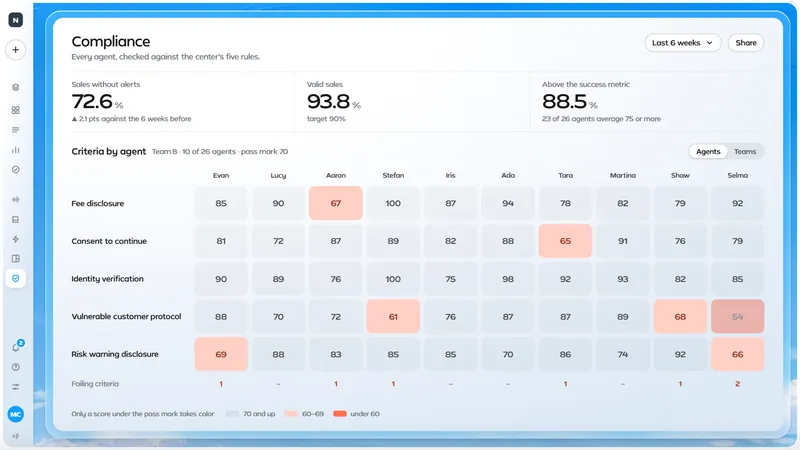
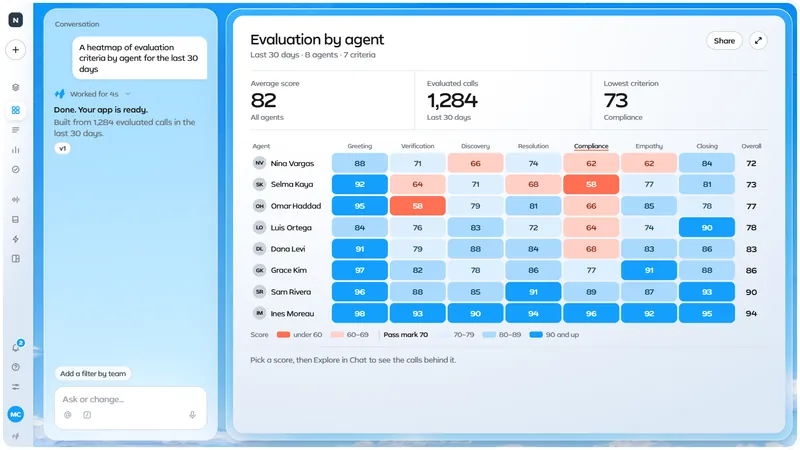
Home Compliance slide: the same Studio explain screen as the case study (grid, the card beside the team, Explore in Chat with the Oct 13 call first); the focus rim's corners now match what it rings, corner by corner, and everything outside it is veiled again; in chat only the AI's answer is ringed

diff --git a/v7/product.js b/v7/product.js
@@ -14,6 +14,18 @@
       if (i === 0) t.hot(-1, -1, 'force'); else if (i === 1) t.hot(0, -1, 'map'); else t.ask(0, 2);
     }
   };
+  /* Compliance is the Explainable scores case's own screen: the Evaluation by agent app in explain mode (studio.html?app=eval&explain=1,
+     hear-v7/plan/explain). Its four states (the grid, the scores under 70, the card, the calls) play as three steps: the grid's second
+     shot dims the blue side (call: 1), the card opens on Selma's Compliance 58, and Explore in Chat brings the calls. */
+  var EXPLAIN = {
+    steps: ['Every agent on every rule: coral under the pass mark of 70, blue above it.', 'A click on a low score opens a card that compares the agent with the team.', 'Explore in Chat brings in the calls behind the score, and the AI points to the process.'],
+    step: function (w, i, sub) {
+      var n = sub != null ? sub : [0, 2, 3][i], c = w.document.querySelector('.app .card');
+      w.hearExplain.step(n);
+      /* the window is shorter than the case page's: the app card scrolls, so the calls are brought up whole once they are asked for */
+      if (c) c.scrollTop = n === 3 ? c.scrollHeight : 0;
+    }
+  };
   /* THE CAMERA (owner, 22.11.2026: "a busy screen cannot be shown whole: the animation has to focus on one part at a time", and later
      the same day: "more thought in the animation, more exact timings, a more calculated experience").
      Every step is a list of shots: [after ms, selector in the screen, options]. The frame moves in on what the selector finds, measured
@@ -30,21 +42,27 @@
        4. as it opens, the lit area grows around it and the frame pushes in on it, in one move.
      When what the step is about does not exist yet (a side panel), the frame holds where it is, the screen opens it, and then the frame
      goes to it. Nothing opens while the picture is still travelling. */
+  var CM = '#hm tr:first-child th:first-child, #hm tr:last-child td[data-c="Compliance"]';
   var SHOTS = {
     topics: [
       [[0, null], [1700, '.tp-col:first-child', { pad: 22 }]],
       [[0, '#tp-map [data-k="0"]', { pad: 56, max: 2.1 }]],
       [[0, '.ask-on .tp-ask', { fit: 'w', pad: 26, max: 2, from: '#tp-map [data-k="0"] .tp-p[data-p="2"]' }], [5200, '.ask-on .tp-ask', { fit: 'w', part: [0, .17, 1, 1], keep: true, pad: 26, max: 2 }]]
     ],
+    /* call: the screen's own sub-step, played when the shot comes (and at once when the step is shown paused) */
     compliance: [
-      [[0, null], [1700, '.cm-grid', { part: [0, 0, .6, 1], max: 1.7 }], [4000, '.cm-grid', { part: [.4, 0, 1, 1], max: 1.7 }]],
-      [[0, '[data-c="3-9"]', { pad: 180, pad2: 46, max: 1.85, grow: '.sx-tip.on' }]],
-      [[0, '.sx-side.on', { fit: 'w', pad: 26, max: 2, from: '.sx-tip.on .go' }], [3600, '.sx-side.on', { fit: 'w', part: [0, .16, 1, 1], keep: true, small: true, pad: 26, max: 2 }]]
+      /* a phone reads the grid from the names to the Compliance column, the width of the frame */
+      [[0, null], [1700, '#hm, .appv[data-v="eval"] .key', { pad: 22, max: 1.7, big: true }], [4300, '#hm, .appv[data-v="eval"] .key', { pad: 22, max: 1.7, keep: true, call: 1, big: true }],
+        [1700, CM, { fit: 'w', pad: 14, max: 2, small: true }], [4300, CM, { fit: 'w', pad: 14, max: 2, keep: true, call: 1, small: true }]],
+      [[0, '#hm td[data-a="Selma Kaya"][data-c="Compliance"]', { pad: 180, pad2: 30, max: 1.85, grow: '.xp-pop' }]],
+      /* the calls, then what the AI says; a phone reads the first call in two parts: the call, then its score and what Hear found */
+      [[0, '.ev:not(.xp-empty), .ev:not(.xp-empty) #evl', { pad: 22, max: 1.8, from: '.xp-pop .xp-go' }], [2700, '#evl tr:first-child', { pad: 16, max: 2, gx: 10, gy: 0, ax: 1, small: true }],
+        [4000, '.xp-said', { pad: 26, max: 1.8, big: true, mark: '.it.xp-said' }], [5200, '.xp-said', { pad: 20, max: 2, small: true, mark: '.it.xp-said' }]]
     ],
     agents: [
       /* the chart is nearly as wide as the screen: a small zoom only cut the screen's title in half at the top rim, so the screen stays whole and the chart is lit */
       [[0, null], [1700, '.ae-plot, .ae-dates', { pad: 80, ax: .62 }]],
-      [[0, '[data-b="17"]', { pad: 130, pad2: 50, max: 1.85, grow: '.sx-tip.on' }]],
+      [[0, '[data-b="17"]', { pad: 130, pad2: 50, max: 1.85, grow: '.sx-tip.on', mark: '.sx-tip.on' }]],
       [[0, '.sx-side.on', { fit: 'w', pad: 26, max: 2, from: '.ae-strip i:last-child' }], [3000, '.sx-side.on', { fit: 'w', part: [0, .26, 1, 1], keep: true, small: true, pad: 26, max: 2 }], [4900, '.sx-side.on', { fit: 'w', part: [0, .62, 1, 1], keep: true, small: true, pad: 26, max: 2 }], [4700, '.sx-side.on .ae-ag, .sx-side.on .ae-nt, .sx-side.on .ft', { keep: true, big: true, pad: 16, max: 2 }]]
     ],
     actions: [
@@ -81,7 +99,9 @@
     topics: { k: 0, sel: '#tp-map [data-k="5"]', o: { pad: 120, max: 1.7, gx: 2, gy: 2 }, os: { pad: 34, max: 2.6, gx: 2, gy: 2 },
       act: function (w) { var t = w.hearTopics, b = w.document.querySelector('#tp-view button[data-i="1"]'); t.close(); if (b && !b.classList.contains('on')) b.click(); t.hot(5, -1, 'map'); },
       undo: function (w) { var b = w.document.querySelector('#tp-view button[data-i="0"]'); if (b && !b.classList.contains('on')) b.click(); } },
-    compliance: { k: 2, sel: '.sx-side.on li:first-child', o: { pad: 54, max: 2, gx: 10, gy: 0 }, os: { pad: 38, max: 2.4, gx: 10, gy: 0 }, late: true },
+    /* the calls behind Selma's Compliance score, after Explore in Chat: the Oct 13 call is the first row (explain.js) */
+    compliance: { k: 2, sel: '#evl tr:first-child', o: { pad: 54, max: 2, gx: 10, gy: 0 }, os: { pad: 38, max: 2.4, gx: 10, gy: 0 },
+      then: function (small) { return small ? { at: 2600, sel: '#evl tr:first-child', o: { pad: 20, max: 2.4, gx: 10, gy: 0, ax: 1 } } : null; } },
     /* the task, from its header ("From an alert") down to its facts: priority, who has it, which call. A phone cannot read all of that
        at once: it reads the task first, then (then:) the frame moves down to the facts. */
     actions: { k: 2, sel: function (small) { return small ? '.sx-side.on header, .sx-side.on .a' : '.sx-side.on header, .sx-side.on .a, .sx-side.on dl'; },
@@ -90,7 +110,7 @@
     news: { k: 0, sel: '.nr-item.thread', o: { pad: 70, max: 1.9, gx: 14, gy: 0 }, os: { pad: 28, max: 2.2, gx: 10, gy: 0 } }
   };
   /* How long each step lasts once the frame has landed on it (the way there is added: see P.off). */
-  var DUR = { topics: [5400, 4400, 10200], compliance: [6600, 4400, 7600], agents: [6200, 4800, 8600], actions: [5600, 4200, 8500, 4600], news: [8600, 4600, 4400, 5000], data: [6600, 4800, 9900], signals: [8200, 6600, 14000] };
+  var DUR = { topics: [5400, 4400, 10200], compliance: [6600, 5200, 9400], agents: [6200, 4800, 8600], actions: [5600, 4200, 8500, 4600], news: [8600, 4600, 4400, 5000], data: [6600, 4800, 9900], signals: [8200, 6600, 14000] };
   /* owner, 24.11: "the demos run too slowly, at least at the start". The step lengths and the shots' start times above are played
      at this pace: the first step (which only shows the screen) at 55%, the rest at 80%. The camera's travel and the press, open and
      settle beats below are not scaled, so nothing still opens while the picture is moving. */
@@ -114,7 +134,10 @@
     /* owner, 24.11: "the mark is ugly, it does not fit what it marks and nearly touches it, and the two parts differ in colour". The mark
        is now Hear's own focus ring (the field in focus in the app: a blue line and a soft blue halo), 10px clear of the part with the
        part's corner plus that air, and nothing outside it is washed: the screen keeps one colour. */
-    'box-shadow:0 0 0 calc(var(--h,1px)*1.5) #139FFD,0 0 0 calc(var(--h,1px)*5) rgba(19,159,253,.16)}' +
+    /* owner, 25.11: "what is around it is not dimmed as it was; the whole point was to help focus on what matters". Everything outside
+       the rim is dimmed again, by the rim's own shadow, so the dimmed area follows the rim's corners exactly: a light veil, the same
+       on every colour, about what the old screens did with opacity .6 on what was not in focus. */
+    'box-shadow:0 0 0 calc(var(--h,1px)*1.5) #139FFD,0 0 0 calc(var(--h,1px)*5) rgba(19,159,253,.16),0 0 0 4000px rgba(255,255,255,.55)}' +
     '.px-soft{position:fixed;z-index:2147483000;pointer-events:none;opacity:0;background:none}' +
     '#px-rim.on,.px-soft.on{opacity:1}' +
     '#px-tap{position:fixed;z-index:2147483002;pointer-events:none;border-radius:50%;opacity:0;background:rgba(19,159,253,.22);box-shadow:inset 0 0 0 var(--h,1px) rgba(255,255,255,.95),0 0 0 var(--h,1px) rgba(11,111,207,.55)}' +
@@ -127,6 +150,7 @@
      behind is emptied, and loads again when the reader comes back. Until a window has drawn, it shows a still of its first view
      (img/px-poster-*.webp, the whole screen as step 1 opens on it), never an empty blue box. */
   var LOAD = { busy: null, t: 0 }, FAR = 4000, UNDER = 2500;
+  var POSTER = { compliance: 2 };          /* a still redrawn since: its version, so no browser keeps the old one */
   function pump() {
     if (LOAD.busy && performance.now() - LOAD.t < 6000) return;
     LOAD.busy = null;
@@ -161,8 +185,8 @@
     var key = function () { return fig.getAttribute('data-px'); };
     /* the still of the screen the window holds; it is drawn only while the app is not (a still under a live app is wasted memory) */
     function still() {
-      var f = base + 'img/px-poster-' + key();
-      poster.srcset = f + '-s.webp?v=1 800w, ' + f + '.webp?v=1 1600w'; poster.src = f + '.webp?v=1';
+      var f = base + 'img/px-poster-' + key(), v = '.webp?v=' + (POSTER[key()] || 1);
+      poster.srcset = f + '-s' + v + ' 800w, ' + f + v + ' 1600w'; poster.src = f + v;
     }
     function cover(on) { clearTimeout(P.pv); if (on) poster.style.visibility = ''; else P.pv = setTimeout(function () { poster.style.visibility = 'hidden'; }, 700); }
     still();
@@ -225,21 +249,32 @@
     function target(full, rest) {
       var sh = shot(), o = (sh && sh[2]) || {};
       if (!sh || !sh[1]) return null;
-      try { var sel = full && o.grow ? sh[1] + ', ' + o.grow : sh[1]; P.rad = o.part ? 0 : radOf(sel); return rectOf(sel, o.part, rest); } catch (e) { return null; }
+      /* mark: the rim goes round this part only, while the frame still shows the whole shot (the AI's answer, with its question above it) */
+      try { var sel = full && o.grow ? sh[1] + ', ' + o.grow : sh[1], ms = o.mark || null;
+        P.rad = o.part ? null : radOf(ms || sel); P.mark = ms ? rectOf(ms) : null; return rectOf(sel, o.part, rest); } catch (e) { P.mark = null; return null; }
     }
     /* The corner of what a selector covers, in the screen's px: the corner of the thing itself, or, when it is a plain box, of what
        sits in its corner (a map tile's face, the first card of a column). The lit area takes its corner from here, so its shape is
        the shape of the part it marks (owner, 22.11.2026 night: "it is not about more or less, it must fit the part it marks"). */
+    /* owner, 25.11: "the curve must be exact for every one of them". Each of the four corners is read on its own: the corner of the
+       thing that sits in that corner of what is marked (a bubble, a cell, a card). Where nothing with a shape sits in a corner (a line
+       of text, a header), that corner is null and the rim is nearly square there. [top-left, top-right, bottom-right, bottom-left] */
     function radOf(sel) {
-      var d = frame.contentDocument, w = frame.contentWindow, best = 0;
-      [].forEach.call(d.querySelectorAll(sel), function (el) {
-        var r = el.getBoundingClientRect(); if (r.width < 2 || r.height < 2) return;
-        var v = parseFloat(w.getComputedStyle(el).borderTopLeftRadius) || 0;
-        if (!v) { var kids = el.querySelectorAll('*'), n = Math.min(kids.length, 60);
-          for (var i = 0; i < n && !v; i++) { var b = kids[i].getBoundingClientRect(); if (b.width > 8 && Math.abs(b.left - r.left) < 6 && Math.abs(b.top - r.top) < 6) v = parseFloat(w.getComputedStyle(kids[i]).borderTopLeftRadius) || 0; } }
-        best = Math.max(best, Math.min(v, r.width / 2, r.height / 2));
+      var d = frame.contentDocument, w = frame.contentWindow, els = [].filter.call(d.querySelectorAll(sel), function (el) { var b = el.getBoundingClientRect(); return b.width >= 2 && b.height >= 2; });
+      if (!els.length) return null;
+      var bs = els.map(function (el) { return el.getBoundingClientRect(); });
+      var L = Math.min.apply(null, bs.map(function (b) { return b.left; })), T = Math.min.apply(null, bs.map(function (b) { return b.top; })),
+        R = Math.max.apply(null, bs.map(function (b) { return b.right; })), B = Math.max.apply(null, bs.map(function (b) { return b.bottom; }));
+      var pool = []; els.forEach(function (el) { pool.push(el); var k = el.querySelectorAll('*'); for (var i = 0; i < Math.min(k.length, 400); i++) pool.push(k[i]); });
+      var C = [['left', 'top', 'borderTopLeftRadius'], ['right', 'top', 'borderTopRightRadius'], ['right', 'bottom', 'borderBottomRightRadius'], ['left', 'bottom', 'borderBottomLeftRadius']];
+      var at = { left: L, top: T, right: R, bottom: B }, any = false;
+      var out = C.map(function (c) {
+        var v = 0;
+        for (var i = 0; i < pool.length && !v; i++) { var b = pool[i].getBoundingClientRect(); if (b.width < 8 || b.height < 8) continue;
+          if (Math.abs(b[c[0]] - at[c[0]]) < 3 && Math.abs(b[c[1]] - at[c[1]]) < 3) v = Math.min(parseFloat(w.getComputedStyle(pool[i])[c[2]]) || 0, b.width / 2, b.height / 2); }
+        if (v) any = true; return v;
       });
-      return best;
+      return any ? out : null;
     }
     /* the sky margin plus the glass rim around the app's white card, in the screen's px (about 27 on a phone) */
     function edge() {
@@ -315,13 +350,15 @@
            two curves are concentric. A part with square corners gets a nearly square frame. */
         /* the air between the part and its rim: 10 all round, unless the shot says otherwise (text that starts at the part's own edge
            needs more at the sides; rows ruled by hairlines need none above and below, or the rules show inside the rim) */
-        var gx = o.gx == null ? 10 : o.gx, gy = o.gy == null ? 10 : o.gy, g = Math.max(0, Math.min(gx, gy));
-        var x = r[0] - gx, y = r[1] - gy, w = r[2] + 2 * gx, h = r[3] + 2 * gy, k = P.s * c.z;
+        var gx = o.gx == null ? 10 : o.gx, gy = o.gy == null ? 10 : o.gy, g = Math.max(0, Math.min(gx, gy)), m = P.mark || r;
+        var x = m[0] - gx, y = m[1] - gy, w = m[2] + 2 * gx, h = m[3] + 2 * gy, k = P.s * c.z;
+        /* each corner: the marked part's own corner plus the air, so the curves are concentric; a corner with no shape in it stays nearly square */
+        var rad = (P.rad || [0, 0, 0, 0]).map(function (v) { return (v ? Math.min(v + g, w / 2, h / 2) : Math.min(6, g)).toFixed(2) + 'px'; }).join(' ');
         var T = was ? 'opacity .3s ease, left ' + geo + ', top ' + geo + ', width ' + geo + ', height ' + geo + ', border-radius ' + geo : 'opacity .46s ease ' + Math.round(ms * .5) + 'ms';
         var boxes = [[0, 0, P.w, Math.max(0, y)], [0, y + h, P.w, H()], [0, y, Math.max(0, x), h], [x + w, y, P.w, h]];
         if (!was) { rim.style.transition = 'none'; [].forEach.call(soft, function (el) { el.style.transition = 'none'; }); }
         var place = function () {
-          rim.style.setProperty('--r', (P.rad ? Math.min(P.rad + g, w / 2, h / 2) : 4 + g).toFixed(2) + 'px'); rim.style.setProperty('--h', (1 / k).toFixed(2) + 'px');
+          rim.style.setProperty('--r', rad); rim.style.setProperty('--h', (1 / k).toFixed(2) + 'px');
           set(rim, { left: px(x), top: px(y), width: px(w), height: px(h) });
           [].forEach.call(soft, function (el, i) { set(el, { left: px(boxes[i][0]), top: px(boxes[i][1]), width: px(boxes[i][2]), height: px(boxes[i][3]) }); });
         };
@@ -361,6 +398,7 @@
     /* things that happen later in the step, on the step's own clock: a pause holds them too */
     function at(ms, fn) { P.q.push({ t: P.ms + ms, fn: fn }); P.q.sort(function (a, b) { return a.t - b.t; }); }
     var act = function () { try { P.api(P.k); } catch (e) {} };
+    var sub = function (o) { if (o && o.call != null) { try { P.api(P.k, o.call); } catch (e) {} } };
     /* after the screen has answered: take in what opened, in one move */
     function settle() {
       var sh = shot(), o = (sh && sh[2]) || {}, r = target(true), a = P.r;
@@ -382,7 +420,7 @@
         }
         var m0 = move(null, o); if (first) P.off = m0; return;
       }
-      if (!first) { at(move(r, o) + 60, settle); return; }
+      if (!first) { sub(o); at(move(r, o) + 60, settle); return; }
       if (!r) {                                  /* not there yet: hold, let the screen open it, then go to it */
         P.r = null;
         /* what opens it is pressed first, where the frame already is; then the light goes out (it never slides across the screen),
@@ -416,7 +454,7 @@
       if (P.paused || reduce) {
         /* paused, a step is shown finished, on its closest shot: no sequence to wait for */
         if (st) P.si = st.length - 1;
-        act();
+        act(); if (st) st.forEach(function (x) { sub(x[2]); });
         if (hold) return;                        /* the caller takes the frame somewhere itself, in one move */
         look(reduce ? 0 : 700);
         [560, 1300].forEach(function (ms) { P.re.push(setTimeout(function () { look(reduce ? 0 : 640); }, ms)); });
@@ -464,7 +502,9 @@
         /* the fold is in place: from here the screen's own transitions run again */
         st.textContent = st.textContent.replace(HOLD, '');
       } catch (e) {}
-      if (w.hearScreens) { P.steps = w.hearScreens.steps; P.dur = DUR[key()] || w.hearScreens.dur || []; P.api = function (i) { w.hearScreens.step(i); }; }
+      /* explain mode first: the studio also carries Topics (hearTopics), so it must not be taken for it */
+      if (w.hearExplain) { P.steps = EXPLAIN.steps; P.dur = DUR[key()] || []; P.api = function (i, n) { EXPLAIN.step(w, i, n); }; }
+      else if (w.hearScreens) { P.steps = w.hearScreens.steps; P.dur = DUR[key()] || w.hearScreens.dur || []; P.api = function (i) { w.hearScreens.step(i); }; }
       else if (w.hearTopics) { P.steps = TOPICS.steps; P.dur = DUR.topics; P.api = function (i) { TOPICS.step(w, i); }; }
       else return;
       beats.style.setProperty('--n', P.steps.length);

diff --git a/hear-v7/plan/studio.html b/hear-v7/plan/studio.html
@@ -252,7 +252,7 @@ document.getElementById('try').innerHTML=TRY.map((t,i)=>`<button type="button" s
 // SAMPLE DATA: evaluation criteria, and each agent's evaluated calls and score per criterion (0–100)
 const CRIT=['Greeting','Verification','Discovery','Resolution','Compliance','Empathy','Closing'];
 // Compliance is low across most of the team (5 of 8 under the pass mark, the best two high): a pattern that points at the process, not one agent
-const AG=[['Tyler Shaw',172,[92,64,71,68,58,77,81]],['Nina Vargas',148,[88,71,66,74,62,62,84]],['Omar Haddad',131,[95,58,79,81,66,85,78]],['Luis Ortega',166,[84,76,83,72,64,74,90]],
+const AG=[['Selma Kaya',172,[92,64,71,68,58,77,81]],['Nina Vargas',148,[88,71,66,74,62,62,84]],['Omar Haddad',131,[95,58,79,81,66,85,78]],['Luis Ortega',166,[84,76,83,72,64,74,90]],
           ['Grace Kim',189,[97,82,78,86,77,91,88]],['Dana Levi',154,[91,79,88,84,68,83,86]],['Sam Rivera',160,[96,88,85,91,89,87,93]],['Ines Moreau',164,[98,93,90,94,96,92,95]]];
 const PASS=70, avg=a=>Math.round(a.reduce((x,y)=>x+y,0)/a.length), band=v=>v>=90?'b5':v>=80?'b4':v>=PASS?'b3':v>=60?'b2':'b1';
 const rows=AG.map(([n,c,s])=>({n,c,s,o:avg(s)})).sort((a,b)=>a.o-b.o);          // lowest overall first, as asked in the conversation
@@ -480,18 +480,18 @@ const I_NO='<svg viewBox="0 0 18 18" aria-hidden="true"><path d="M6 6l6 6M12 6l-
 const head=(t,sub)=>`<div class="top"><div><h2>${t}</h2><p>${sub}</p></div><div class="sp"></div><button class="act">Share</button><button class="act sq" aria-label="Open full page">${EXPAND}</button></div>`;
 const kpis=k=>`<div class="kpis">${k.map(([a,b,c])=>`<div><small>${a}</small><b>${b}</b><i>${c}</i></div>`).join('')}</div>`;
 const sec=t=>{ const m=Math.floor(t/60); return m+':'+String(Math.round(t%60)).padStart(2,'0') }, toS=l=>{ const [m,x]=l.split(':'); return m*60+ +x };
-const TEAM={'Team Atlas':['Tyler Shaw','Nina Vargas'],'Team Birch':['Omar Haddad','Luis Ortega'],'Team Cedar':['Grace Kim','Dana Levi'],'Team Delta':['Sam Rivera','Ines Moreau']};
+const TEAM={'Team Atlas':['Selma Kaya','Nina Vargas'],'Team Birch':['Omar Haddad','Luis Ortega'],'Team Cedar':['Grace Kim','Dana Levi'],'Team Delta':['Sam Rivera','Ines Moreau']};
 const pickRow=(sel,el)=>{ el.parentElement.querySelectorAll(sel).forEach(x=>x.classList.toggle('on',x===el)) };
 // as many rows as the card has room for (critic round 6: the new screens ended early): render 9, drop from the end while the card scrolls
 function fitRows(tb,make,min=3){ let n=9; tb.innerHTML=make(n); const card=document.querySelector('.app .card'); while(n>min&&card.scrollHeight>card.clientHeight+1){ n--; tb.lastElementChild.remove() } return n }
 
 // 1 · Disclosure review: the calls that miss a required sentence, one at a time
 const DISC=['Call recording notice','Fee disclosure','Cooling-off period'];
-const DQ=[{a:'Nina Vargas',r:'Payment plan',d:'Nov 18',len:'8:05',said:[15,null,null]},{a:'Tyler Shaw',r:'Billing dispute',d:'Nov 18',len:'6:42',said:[21,null,358]},
+const DQ=[{a:'Nina Vargas',r:'Payment plan',d:'Nov 18',len:'8:05',said:[15,null,null]},{a:'Selma Kaya',r:'Billing dispute',d:'Nov 18',len:'6:42',said:[21,null,358]},
           {a:'Luis Ortega',r:'Cancel request',d:'Nov 17',len:'4:18',said:[18,null,241]},{a:'Omar Haddad',r:'Plan upgrade',d:'Nov 17',len:'5:10',said:[null,132,290]},
           {a:'Grace Kim',r:'Card replacement',d:'Nov 16',len:'7:11',said:[22,175,null]},{a:'Dana Levi',r:'Rate question',d:'Nov 15',len:'3:54',said:[19,null,201]},
           {a:'Sam Rivera',r:'Refund status',d:'Nov 15',len:'6:20',said:[17,null,330]},{a:'Ines Moreau',r:'Address change',d:'Nov 14',len:'4:02',said:[16,98,null]},
-          {a:'Tyler Shaw',r:'Fraud alert',d:'Nov 14',len:'9:15',said:[null,210,470]},{a:'Nina Vargas',r:'Plan upgrade',d:'Nov 13',len:'5:44',said:[20,null,301]},
+          {a:'Selma Kaya',r:'Fraud alert',d:'Nov 14',len:'9:15',said:[null,210,470]},{a:'Nina Vargas',r:'Plan upgrade',d:'Nov 13',len:'5:44',said:[20,null,301]},
           {a:'Omar Haddad',r:'Delivery delay',d:'Nov 13',len:'3:31',said:[14,null,186]},{a:'Grace Kim',r:'Payment plan',d:'Nov 12',len:'7:58',said:[19,null,null]}];
 // where each sentence belongs in the call, and a few lines of the conversation around that moment (SAMPLE); the missing sentence is a dashed gap
 const WHERE=[[.02,'Before the account details',[['Agent','Thanks for calling Northwind, this is {A}.'],['Customer','Hi, I have a question about my account.'],['Agent','Sure, can I have your account number?'],['Customer','It’s 4471 2290.']]],
@@ -624,7 +624,7 @@ const GAL=[{v:'eval',n:'Evaluation by agent',team:'QA',by:'Maya Chen',when:'2 h 
            {v:'disc',n:'Disclosure review',team:'Compliance',by:'Dana Levi',when:'today',line:'12 calls to review',live:true},
            {v:'aht',n:'Handle time by team',team:'Operations',by:'Sam Rivera',when:'yesterday',line:'Delta and Birch over target',live:true},
            {v:'comp',n:'Compliance review',team:'Compliance',by:'Maya Chen',when:'3 d ago',line:'Pass rate 94%',live:true},
-           {v:'coach',n:'Coaching queue',team:'QA',by:'Tyler Shaw',when:'last week',line:'Draft · not built yet',live:false,ask:'A coaching queue of the agents with the lowest scores this week'}];
+           {v:'coach',n:'Coaching queue',team:'QA',by:'Selma Kaya',when:'last week',line:'Draft · not built yet',live:false,ask:'A coaching queue of the agents with the lowest scores this week'}];
 const ME='Maya Chen';
 // The previews: an abstract picture of each app's layout that fills the whole frame, in the page's blue scale with ink for what needs attention,
 // and no text (his notes, 11-19: only the heatmap card "looks good"; "it needs to be abstract general description of the layout that fills the
@@ -828,6 +828,6 @@ document.getElementById('new').addEventListener('click',()=>{ resetMaking(); sto
 <!-- Product screens: the Design Lab's other screens, made simple in the Studio look (screens/) -->
 <script src="screens/screens.js?v=67"></script>
 <!-- Explain mode, for the portfolio's Explainable scores case (studio.html?app=eval&explain=1): loaded only under that flag, nothing changes without it -->
-<script>if(new URLSearchParams(location.search).has('explain')){ const l=document.createElement('link'); l.rel='stylesheet'; l.href='explain/explain.css?v=3'; document.head.appendChild(l);
-  const s=document.createElement('script'); s.src='explain/explain.js?v=6'; s.async=false; document.body.appendChild(s) }</script>
+<script>if(new URLSearchParams(location.search).has('explain')){ const l=document.createElement('link'); l.rel='stylesheet'; l.href='explain/explain.css?v=4'; document.head.appendChild(l);
+  const s=document.createElement('script'); s.src='explain/explain.js?v=7'; s.async=false; document.body.appendChild(s) }</script>
 </html>

diff --git a/index.html b/index.html
@@ -4105,12 +4105,12 @@ html.me-scroll #about .me-pin.me-set .me-photo.me-v7::before{ transition: none; 
         <div class="head"></div>
         <h3>Compliance</h3>
         <p class="pf-prob"><b>The challenge</b>Compliance checks every contact-center agent against the center’s rules. Failures are easy to miss.</p>
-        <p class="pf-lead">Only failing cells in the heatmap get color, and Ask AI names the calls that pulled a score down.</p>
-        <p class="pf-sol">Only failing cells in the heatmap get color. Each cell’s popover compares the agent with the team, and from there Ask AI names the calls that pulled the score down.</p>
-        <div class="pf-call"><p class="pf-call-k">The same call <i>stop 2 of 4</i></p><p class="pf-call-t">Here the Oct 13 refund call explains <b>Selma&nbsp;K.</b>&rsquo;s low score on one rule. Ask AI lists it first among the calls that pulled it down.</p><button type="button" class="pf-call-go" data-follow="Compliance">Show it in Compliance</button></div>
+        <p class="pf-lead">Coral under the pass mark of 70, blue above it, and one click on a score opens the evidence.</p>
+        <p class="pf-sol">Scores under 70 are coral. A click opens a card that compares the agent with the team, and says when it may be the process. Explore in Chat brings in the calls behind it.</p>
+        <div class="pf-call"><p class="pf-call-k">The same call <i>stop 2 of 4</i></p><p class="pf-call-t">Here the Oct 13 refund call is one of the calls behind <b>Selma&nbsp;K.</b>&rsquo;s low Compliance score. Explore in Chat lists it first.</p><button type="button" class="pf-call-go" data-follow="Compliance">Show it in Compliance</button></div>
         <div class="cs-links"><a class="cs-link" href="work/explainable-scores.html" aria-label="Explainable scores case study">Case study <span aria-hidden="true">→</span></a></div>
       </div>
-      <div class="media"><figure class="ct-fig px-fig rv" data-px="compliance"><div class="px-stage"><div class="px-win"><iframe class="px-app" data-src="hear-v7/plan/studio.html?screen=compliance&v=202" title="Compliance in Hear Studio: five rules by agent, a failing score opened beside the team, and Ask AI naming the calls." scrolling="no" tabindex="-1"></iframe></div></div><div class="ct-rail"><button type="button" class="lx-pp" aria-label="Pause the demo"></button><ol class="lx-beats" aria-label="Steps in the demo"></ol><p class="lx-now" aria-hidden="true"></p></div></figure></div>
+      <div class="media"><figure class="ct-fig px-fig rv" data-px="compliance"><div class="px-stage"><div class="px-win"><iframe class="px-app" data-src="hear-v7/plan/studio.html?app=eval&explain=1&v=203" title="Compliance in Hear Studio: every agent scored on every rule, a low score opened beside the team, and Explore in Chat bringing in the calls." scrolling="no" tabindex="-1"></iframe></div></div><div class="ct-rail"><button type="button" class="lx-pp" aria-label="Pause the demo"></button><ol class="lx-beats" aria-label="Steps in the demo"></ol><p class="lx-now" aria-hidden="true"></p></div></figure></div>
     </article>
 
     <article class="spot has-art">
@@ -7032,7 +7032,7 @@ document.addEventListener('DOMContentLoaded', () => {
 <script src="v7/code.js?v=224" defer></script>
 <script src="v7/depth.js?v=224" defer></script>
 <script src="v7/topics.js?v=20" defer></script>
-<script src="v7/product.js?v=229" defer></script>
+<script src="v7/product.js?v=233" defer></script>
 <script src="v7/system.js?v=222" defer></script>
 <script src="v7/web-fyi.js?v=221" defer></script>
 <script src="v7/fyi-door.js?v=4" defer></script>

diff --git a/hear-v7/plan/explain/explain.js b/hear-v7/plan/explain/explain.js
@@ -4,7 +4,7 @@
    asks the AI for the calls. Before that the calls section says so, in one quiet line. SAMPLE DATA: the studio's own.
    When at least half of the agents shown are under the pass mark on the score's criterion, the card says so (it may be the process, not the
    agent) and Explore in Chat asks about the criterion across the team. The page drives it with window.hearExplain.step(n): 0 the grid,
-   1 the scores under the pass mark, 2 the card on the lowest score of the lowest criterion (Tyler's Compliance 58, where 5 of 8 agents are
+   1 the scores under the pass mark, 2 the card on the lowest score of the lowest criterion (Selma's Compliance 58, where 5 of 8 agents are
    under 70), 3 the calls and the answer. */
 (function () {
   const app = document.querySelector('.app .card'), view = document.querySelector('.appv[data-v="eval"]'), hm = document.getElementById('hm');
@@ -21,6 +21,13 @@
   const hint = document.createElement('p'); hint.className = 'xp-hint'; hint.textContent = 'Pick a score, then Explore in Chat to see the calls behind it.';
   ev.appendChild(hint);
   const origPick = pick, origFill = fillCalls;
+  // the portfolio's one sample call, followed through four screens (Topics, here, Actions, Newsroom): on Oct 13 a customer who cannot
+  // afford to rebook asks twice for a refund and is offered a voucher. It is the lowest of the calls behind Selma's Compliance score, so it
+  // takes the first row; the rest stay the studio's own, and the answer in the chat counts them as they are
+  const origCalls = callsFor, OCT13 = { reason: 'Refund request', d: 'Oct 13', len: '6:12', mom: '1:48', s: 29, miss: true, find: 'Vulnerability protocol skipped' };
+  callsFor = function (agent, crit, v, n) { const out = origCalls(agent, crit, v, n);
+    if (agent === 'Selma Kaya' && crit === 'Compliance' && out.length) out[0] = Object.assign({}, OCT13);
+    return out; };
   let explored = null, pop = null, popCell = null, said = [], thinkT = 0;
   // the studio refits the calls on resize and on showing the app: here only once they were asked for, for that score
   fillCalls = function (td) { if (td && td === explored) origFill(td); };
@@ -85,9 +92,9 @@
       : !miss.length ? `<p>All ${n} calls in the table met it. The lowest scored ${list[0].s}.</p>`
       : top[1] > 1 ? `<p><strong>${top[0]}</strong> on ${top[1]} of the ${n} calls in the table.</p>`
       : `<p>Each low call missed something different. The lowest: <strong>${list[0].find.charAt(0).toLowerCase() + list[0].find.slice(1)}</strong>.</p>`;
-    const qd = say('you', ''); qd.textContent = q; said.push(qd);
-    if (!slow) { said.push(say('it', ans)); return; }
-    const p = say('it think', '<span class="dots" aria-label="Thinking"><i></i><i></i><i></i></span>'); said.push(p);
+    const qd = say('you xp-said', ''); qd.textContent = q; said.push(qd);
+    if (!slow) { said.push(say('it xp-said', ans)); return; }
+    const p = say('it think xp-said', '<span class="dots" aria-label="Thinking"><i></i><i></i><i></i></span>'); said.push(p);
     thinkT = setTimeout(() => { p.classList.remove('think'); p.innerHTML = ans; msgs.scrollTop = msgs.scrollHeight; }, 900);
   }
 

diff --git a/work/explainable-scores.html b/work/explainable-scores.html
@@ -64,7 +64,7 @@ addEventListener('pagehide',function(){try{h.scrollRestoration='auto';}catch(e){
       <div class="in-stage es-stage">
         <div class="es-view">
           <p class="es-load">Loading the live screen…</p>
-          <div class="es-cam" id="es-cam"><iframe id="es-app" src="../hear-v7/plan/studio.html?app=eval&amp;explain=1&amp;v=6" width="1037" height="792" loading="lazy" title="Hear Studio, the Evaluation by agent app, live with demo data. Click any score."></iframe></div>
+          <div class="es-cam" id="es-cam"><iframe id="es-app" src="../hear-v7/plan/studio.html?app=eval&amp;explain=1&amp;v=7" width="1037" height="792" loading="lazy" title="Hear Studio, the Evaluation by agent app, live with demo data. Click any score."></iframe></div>
         </div>
         <div class="in-meter" aria-label="Steps"></div>
       </div>

diff --git a/.claude/inbox/site.md b/.claude/inbox/site.md
@@ -120,3 +120,4 @@
 - 25.11: Topics copy rewritten by ChatGPT for a more human, approachable voice (owner's request); facts and numbers checked unchanged. From now on every finished case page goes through this pass.
 - 25.11: Explainable scores (the Compliance case) rebuilt on the story layout with the real Studio screen (studio.html?app=eval&explain=1, hear-v7/plan/explain/): the full original popover (vs team average, rank, spread, Explore in Chat, Open agent evaluation), the calls behind the score only after the second click; copy through ChatGPT. Note: studio.html is synced from public/concept/studio.html elsewhere; its 3-line explain loader must be kept there too.
 - 25.11: Studio colours follow the design-system roles: the eval heatmap is a coral-to-blue scale split at the pass mark 70 (coral under, blue above), Hear Blue selection, coral/green deltas, Deep Blue links, Lilac AI answers, Glass Grey hairlines. Demo Compliance lowered (5 of 8 under 70); the card and chat flag a team-wide low criterion as likely the process, not the agent. Explainable scores steps 2-3 updated (ChatGPT pass). Other Studio apps (disc, aht, comp, gallery) still use black for attention; pages loading studio.html?v=202 not bumped. studio.html must be synced back to public/concept/studio.html.
+- 25.11: Home Compliance slide now plays the same Studio explain screen as the case study (studio.html?app=eval&explain=1): grid, the card beside the team, Explore in Chat with the Oct 13 refund call first. Demo agent Tyler Shaw renamed Selma Kaya. The focus rim (v7/product.js VEIL) takes each corner's radius from the element under it, and everything outside it is veiled again; in chat shots only the AI answer is ringed (mark option); on Agent evaluation the rim rings only the opened day card.
